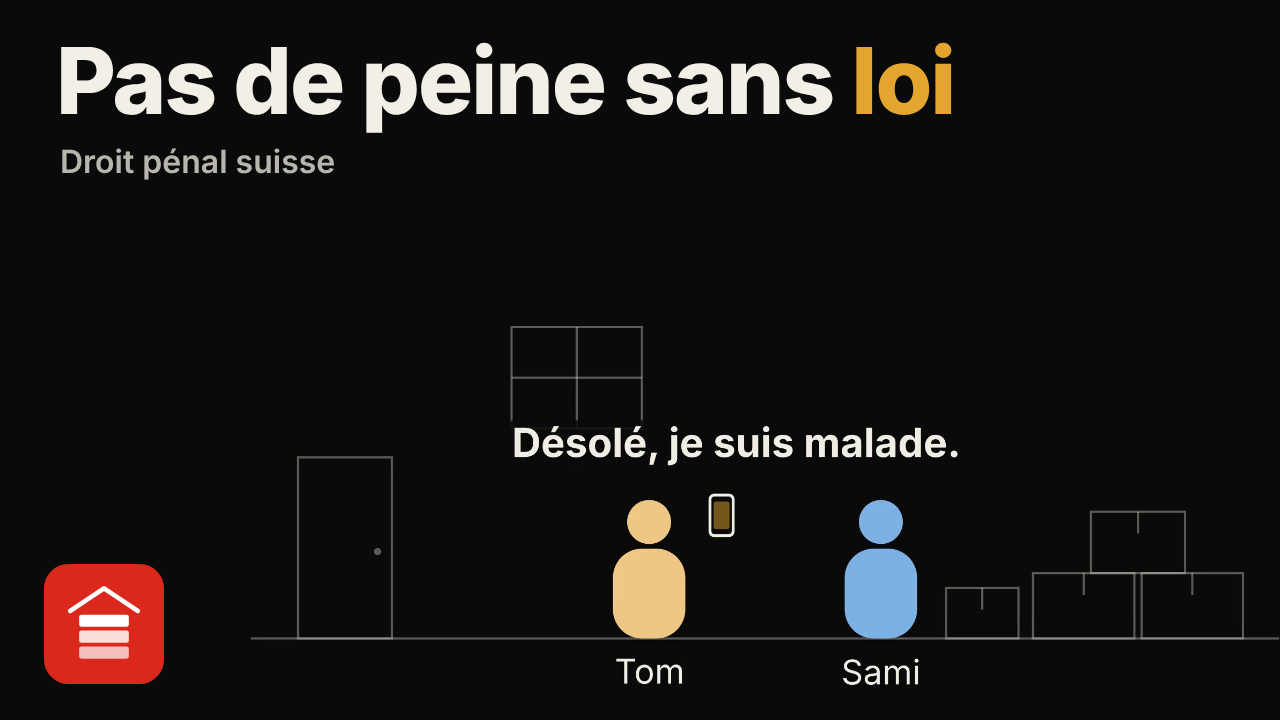
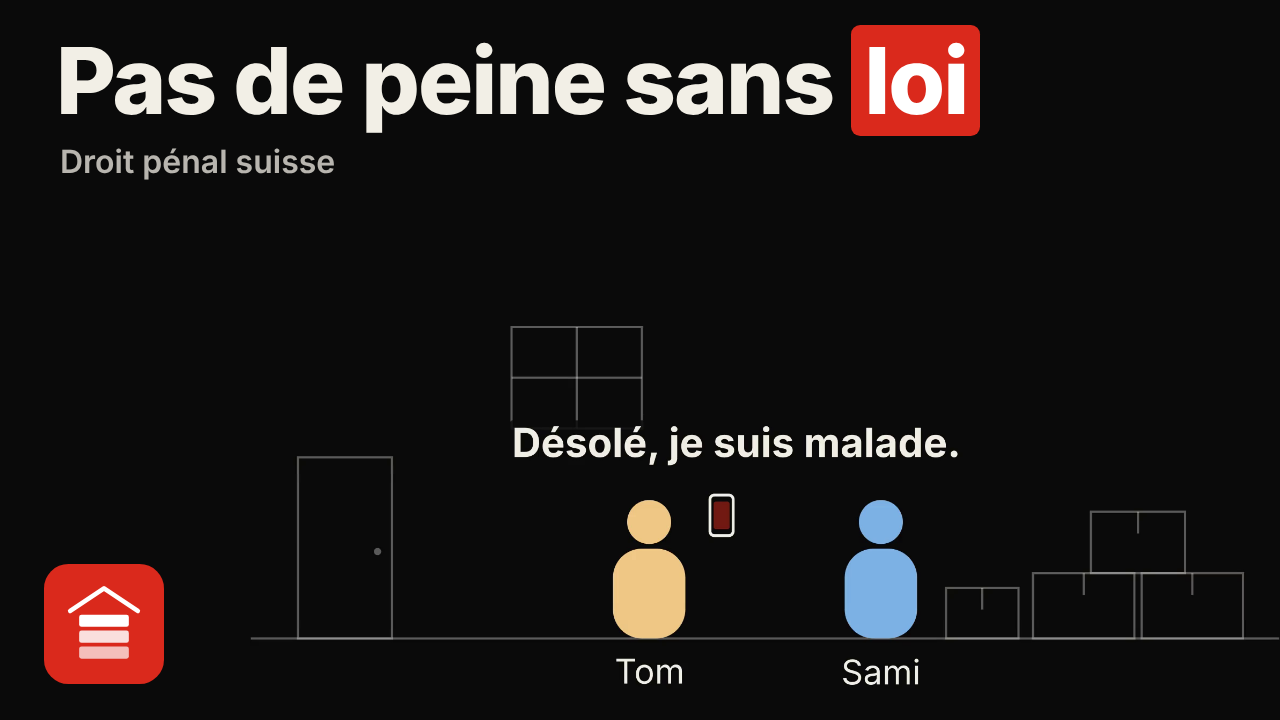
Moteur : retraits avant apparitions dans un même moment ; silhouettes mises en avant en blanc
Corrige le chevauchement de la vidéo 2 (colonnes Peine / Mesure sur le livre ouvert). Fin de la vidéo 2 :
livre plus bas ; « Interpréter » au-dessus du livre ouvert.

Claude-Session: https://claude.ai/code/session_01UWa1JeTci227DpmXZSJt8k

Changed region(s): [[0.6562, 0.0306, 0.7812, 0.2139], [0.5312, 0.7028, 0.5938, 0.7333]]

diff --git a/render/manim/video.py b/render/manim/video.py
@@ -30,6 +30,8 @@ RACINE = Path(__file__).resolve().parents[2]
 SLUG = os.environ.get("SLUG", "")
 DUREE_ANIM = 0.7
 PLAN_FIXE_MAX = 4.0
+RETRAITS = {"effacer-titres", "retirer", "livre-retirer", "article-retirer", "arret-retirer", "etiquette-retirer", "picto-retirer",
+            "effacer-parole", "effacer-bulle", "repere-retirer", "decor-retirer", "retirer-pyramide"}
 CREATIONS = {"cases", "liste", "colonnes", "livres", "frise", "repere-batiment", "repere-liste", "decor"}
 
 config.background_color = c.FOND
@@ -279,6 +281,11 @@ class Schemas(Scene):
             if any(a[0] == "scene-vide" for a in actions):
                 self.scene_vide()
                 actions = [a for a in actions if a[0] != "scene-vide"]
+            # Ce qui part se retire d'abord : rien de nouveau n'apparaît par-dessus un élément sur le départ.
+            retraits = [a for a in actions if a[0] in RETRAITS]
+            if retraits and len(retraits) < len(actions):
+                self.jouer(*[x for a in retraits for x in self.executer(a, repere)], duree=0.3)
+                actions = [a for a in actions if a[0] not in RETRAITS]
             # Un groupe créé et modifié au même moment (des cases aussitôt cochées) apparaît
             # d'abord : sinon son animation d'apparition écrase les marques ajoutées.
             creations = [a for a in actions if a[0] in CREATIONS]
@@ -503,9 +510,11 @@ class Schemas(Scene):
         cadre = c.BlocArticle(self.article.libelle).cadre
         return [Transform(self.article.cadre, cadre)]
 
-    def a_livre(self, titre="Code pénal", x=None):
-        """Un recueil fermé ; au centre, ou à l'abscisse x (à côté d'une liste)."""
+    def a_livre(self, titre="Code pénal", x=None, y=None):
+        """Un recueil fermé ; au centre, ou au point x (à côté d'une liste), y (plus bas, sous deux lignes de titre)."""
         self.livre = c.Livre(titre, x=float(x) if x is not None else 0.0)
+        if y is not None:
+            self.livre.set_y(float(y))
         self.focus = self.livre
         return [FadeIn(self.livre, shift=UP * 0.2)]
 
@@ -696,7 +705,9 @@ class Schemas(Scene):
         if m is None:
             raise ValueError(f"accent : cible inconnue « {cible} »")
         self.focus = m
-        return [Indicate(m, color=c.ACCENT, scale_factor=1.08)]
+        # Une silhouette mise en avant s'éclaire en blanc : en rouge, elle se confondrait avec un accent ou un dommage.
+        couleur = c.TEXTE if cible in self.personnages else c.ACCENT
+        return [Indicate(m, color=couleur, scale_factor=1.08)]
 
     def a_parole(self, ident, contenu):
         p = self.personnages[ident]

diff --git a/scripts/droit-penal-general/02-pas-de-peine-sans-loi/visuals.md b/scripts/droit-penal-general/02-pas-de-peine-sans-loi/visuals.md
@@ -104,7 +104,7 @@ Personnages : Sami bleu clair, Tom ambre pâle, la sœur de Sami rose, le juge t
 | 23.3 | effacer-bulle tom ; repere-marquer 2 gris ; titre "Aucune description ne correspond" |
 | 24.1 | scene-vide ; personnage juge "Juge" turquoise gauche ; livre |
 | 24.1@interpréter | livre-ouvrir ; arret "ATF 103 IV 129" |
-| 24.1@largement | etiquette interpreter "Interpréter" 0 2.2 |
+| 24.1@largement | etiquette interpreter "Interpréter" 0 2.45 |
 | 24.2@ajouter | mot-barre "Ajouter" 4.6 0.4 |
 | 24.3 | scene-vide ; personnage tom "Tom" ambre_pale gauche ; picto pieces 3.0 0.4 ; etiquette e "Escroquerie ?" 3.0 1.3 ; arret "ATF 137 IV 99" |
 | 24.3@ressemble | titre "Ressembler ne suffit pas" |
@@ -137,7 +137,7 @@ Personnages : Sami bleu clair, Tom ambre pâle, la sœur de Sami rose, le juge t
 | 34.1@circulation | livres-surligner 2 |
 | 34.2@nonante | article "Art. 90 LCR" |
 | 35.1 | scene-vide ; article-retirer ; colonnes "Genève" "Vaud" ; picto parlement -3.5 -0.5 ; picto parlement:2 3.5 -0.5 |
-| 35.1@punir | titre "Les cantons aussi" |
+| 35.1@contraventions | titre "Les cantons aussi" |
 | 35.2@article | article "Art. 335 CP" |
 | 36.1@cantonales | titre "Règles cantonales" ambre |
 | 36.2@genève | etiquette ge "Puni" -3.5 -1.6 |
@@ -164,5 +164,5 @@ Personnages : Sami bleu clair, Tom ambre pâle, la sœur de Sami rose, le juge t
 | 43.1 | questions |
 | 43.2@date | accent frise |
 | 43.3 | titre "Réponse en commentaire" |
-| 44.1 | scene-vide ; livre ; titre "L'étude du droit" ; sous-titre "Tout est dans la description" |
+| 44.1 | scene-vide ; livre "Code pénal" 0 0.1 ; titre "L'étude du droit" ; sous-titre "Tout est dans la description" |
 | 44.2 | accent titre |
